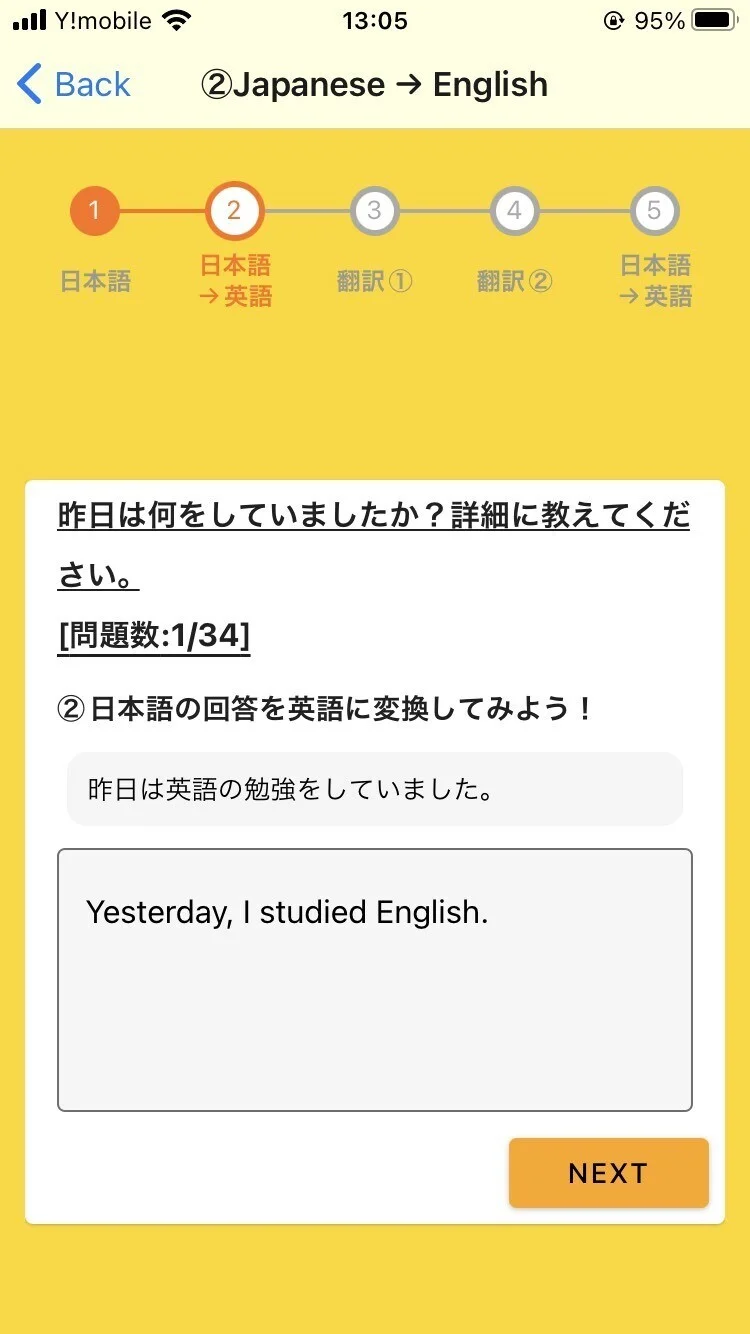
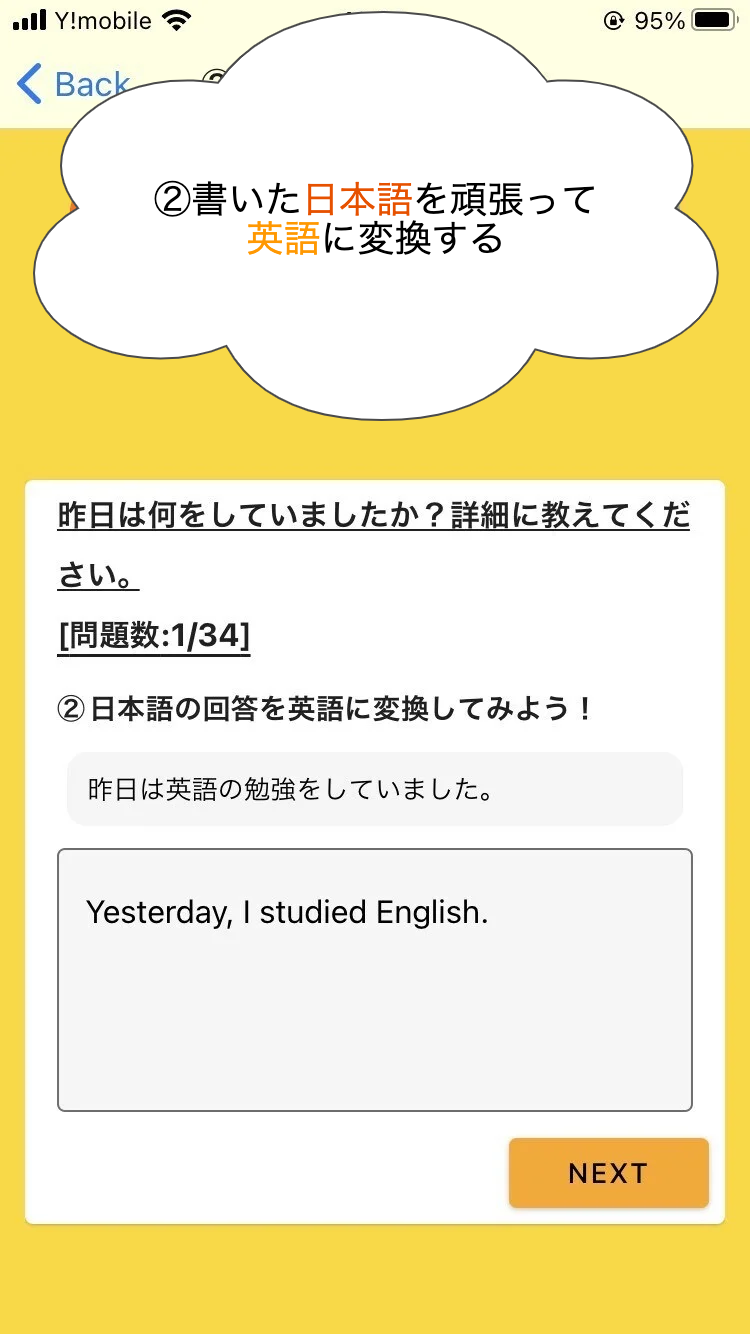
add カルーセル

Changed region(s): [[0.0307, 0.0, 0.9813, 0.3381]]

diff --git a/index.html b/index.html
@@ -13,6 +13,9 @@
     <link rel="stylesheet" media="all" href="css/ress.min.css" />
     <link rel="stylesheet" media="all" href="css/style.css" />
     <link rel="stylesheet" media="all" href="css/carousel.css" />
+    <link rel="stylesheet" href="https://cdn.jsdelivr.net/npm/normalize-css@2.3.1/normalize.css">
+    <link rel="stylesheet" href="https://cdn.jsdelivr.net/npm/slick-carousel@1.8.1/slick/slick.css"/>
+    <link rel="stylesheet" href="https://cdn.jsdelivr.net/npm/slick-carousel@1.8.1/slick/slick-theme.css">
     <link href="https://use.fontawesome.com/releases/v5.6.1/css/all.css" rel="stylesheet">
     <script src="js/jquery-2.1.4.min.js"></script>
     <script src="js/style.js"></script>
@@ -123,21 +126,36 @@
               下記の５つのステップを繰り返し行うことであなたの英作文力を<span class="highlight">飛躍的</span>に向上させます。<br />
               <br />
               <br />
-              <ol>
-                <li>簡単な質問に対して自分の考えを自由に日本語で書く</li>
-                <img alt="簡単な質問に対して自分の考えを自由に日本語で書く" src="img/1.png" class="explanation-image" />
-                <li>書いた日本語を頑張って英語に変換する</li>
-                <img alt="書いた日本語を頑張って英語に変換する" src="img/2.png" class="explanation-image" />
-                <li>変換した英語が正しく伝わっているか確認する</li>
-                <img alt="変換した英語が正しく伝わっているか確認する" src="img/3.png" class="explanation-image" />
-                <li>お手本の自然な英語を確認し、言い回しなどを覚える</li>
-                <img alt="andrお手本の自然な英語を確認し、言い回しなどを覚えるoid" src="img/4.png" class="explanation-image" />
-                <li>再度、日本語を頑張って英語に変換する</li>
-                <img alt="再度、日本語を頑張って英語に変換する" src="img/5.png" class="explanation-image" />
-              </ol>
-              <!-- カルーセルtest -->
-              
-              <!-- カルーセルtest -->
+              <div class="wrapper carousel">
+              <div class="sample-slick">
+                <div class="slick carousel">
+                  <div>
+                    <div class="item">
+                      <img alt="簡単な質問に対して自分の考えを自由に日本語で書く" src="img/1.png" class="explanation-image" />
+                    </div>
+                  </div>
+                  <div>
+                    <div class="item">
+                      <img alt="書いた日本語を頑張って英語に変換する" src="img/2.png" class="explanation-image" />
+                    </div>
+                  </div>
+                  <div>
+                    <div class="item">
+                      <img alt="変換した英語が正しく伝わっているか確認する" src="img/3.png" class="explanation-image" />
+                    </div>
+                  </div>
+                  <div>
+                    <div class="item">
+                      <img alt="andrお手本の自然な英語を確認し、言い回しなどを覚えるoid" src="img/4.png" class="explanation-image" />
+                    </div>
+                  </div>
+                  <div>
+                    <div class="item">
+                      <img alt="再度、日本語を頑張って英語に変換する" src="img/5.png" class="explanation-image" />
+                    </div>
+                  </div>
+                </div>
+              </div></div>
             </div>
           </div>
         </div>
@@ -187,5 +205,23 @@
       <a href="#">Copyright © tom-shumi.</a>
     </div>
     <p id="pagetop"><a href="#">TOP</a></p>
+    <script src="https://code.jquery.com/jquery-3.6.0.min.js" integrity="sha256-/xUj+3OJU5yExlq6GSYGSHk7tPXikynS7ogEvDej/m4=" crossorigin="anonymous"></script>
+    <script src="https://cdn.jsdelivr.net/npm/slick-carousel@1.8.1/slick/slick.min.js"></script>
+  
+    <script type="text/javascript">
+      $(document).ready(() => {
+        $(".sample-slick .slick").slick({
+          infinite: true, // ループの有効化
+          dots: true, // ドットインジケーターの表示
+        });
+      });
+      $(document).ready(() => {
+        $(".sample-slick-fade .slick").slick({
+          infinite: true, // ループの有効化
+          dots: true, // ドットインジケーターの表示
+          fade: true, // フェードアニメーションを有効化
+        });
+      });
+    </script>
   </body>
 </html>

diff --git a/css/style.css b/css/style.css
@@ -146,13 +146,13 @@ nav ul {
 
 /* problem
 -------------------------------------*/
-.problem {
-}
+/* .problem {
+} */
 
 /* resolve
 -------------------------------------*/
-.badResolve {
-}
+/* .badResolve {
+} */
 
 .resolve {
     font-size: 2.0rem;
@@ -172,19 +172,18 @@ nav ul {
 
 /* explanation
 -------------------------------------*/
-.explanation {
-}
+/* .explanation {
+} */
 
 .explanation-image {
     height: 50rem;
-    margin-left: 5rem;
-    margin-bottom: 5rem;
+    margin-bottom: 3rem;
 }
 
 /* goodThings
 -------------------------------------*/
-.goodThings {
-}
+/* .goodThings {
+} */
 
 /* download
 -------------------------------------*/

diff --git a/css/carousel.css b/css/carousel.css
@@ -1,0 +1,24 @@
+.slick-prev:before,
+.slick-next:before {
+    color: black !important;
+}
+.slick-next {
+    right: 10px;
+}
+.slick-prev {
+    left: 10px;
+    z-index: 1;
+}
+.slick-dots {
+    bottom: 10px;
+}
+
+.item {
+    text-align: center;
+    display: table;
+}
+
+.carousel {
+    margin: 0px 10px 0px 10px;
+    width: 280px;
+}

diff --git a/js/style.js b/js/style.js
@@ -41,7 +41,7 @@ $(function () {
 
 $(function(){
 	// メニューをクリック
-	$("a[href*=#]:not([href=#])").click(function(){
+	$("a[href*='#']:not([href='#'])").click(function(){
 		// 移動先のコンテンツ位置を取得
 		var target = $($(this).attr("href")).offset().top;
 		// 50px減らす
